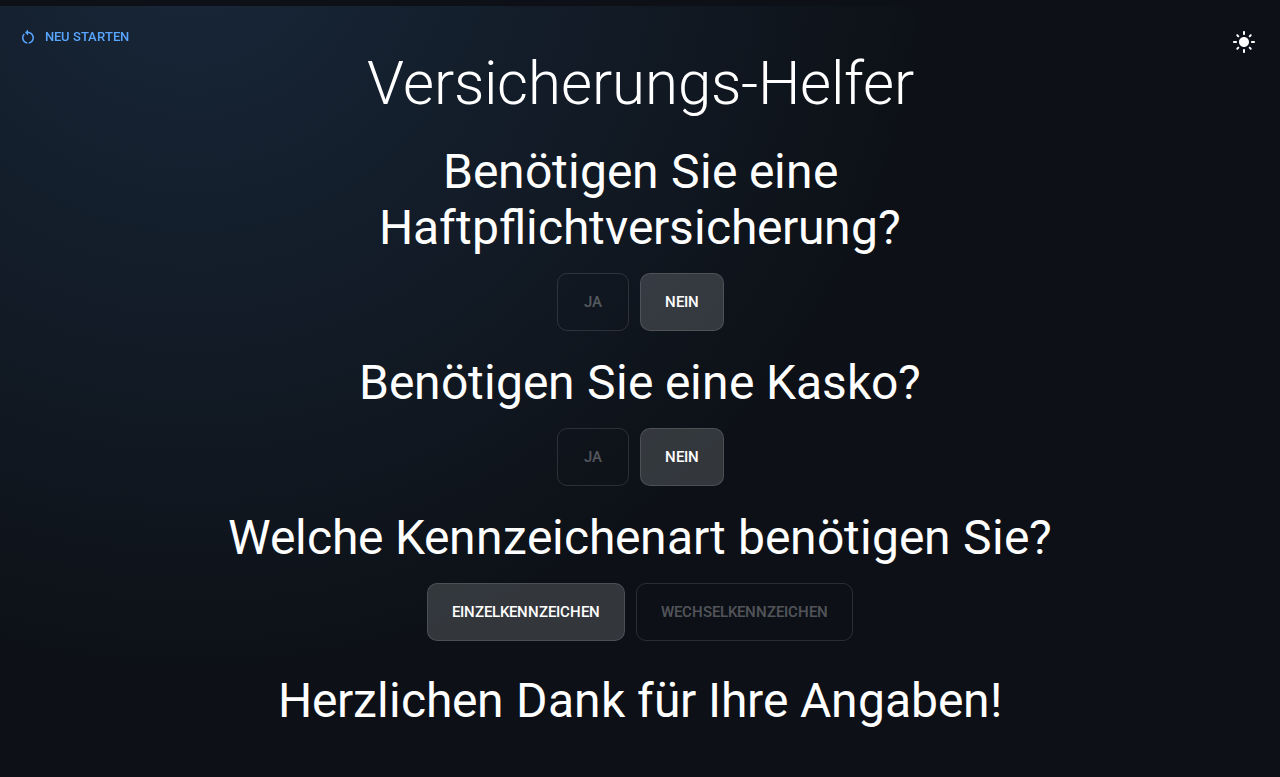
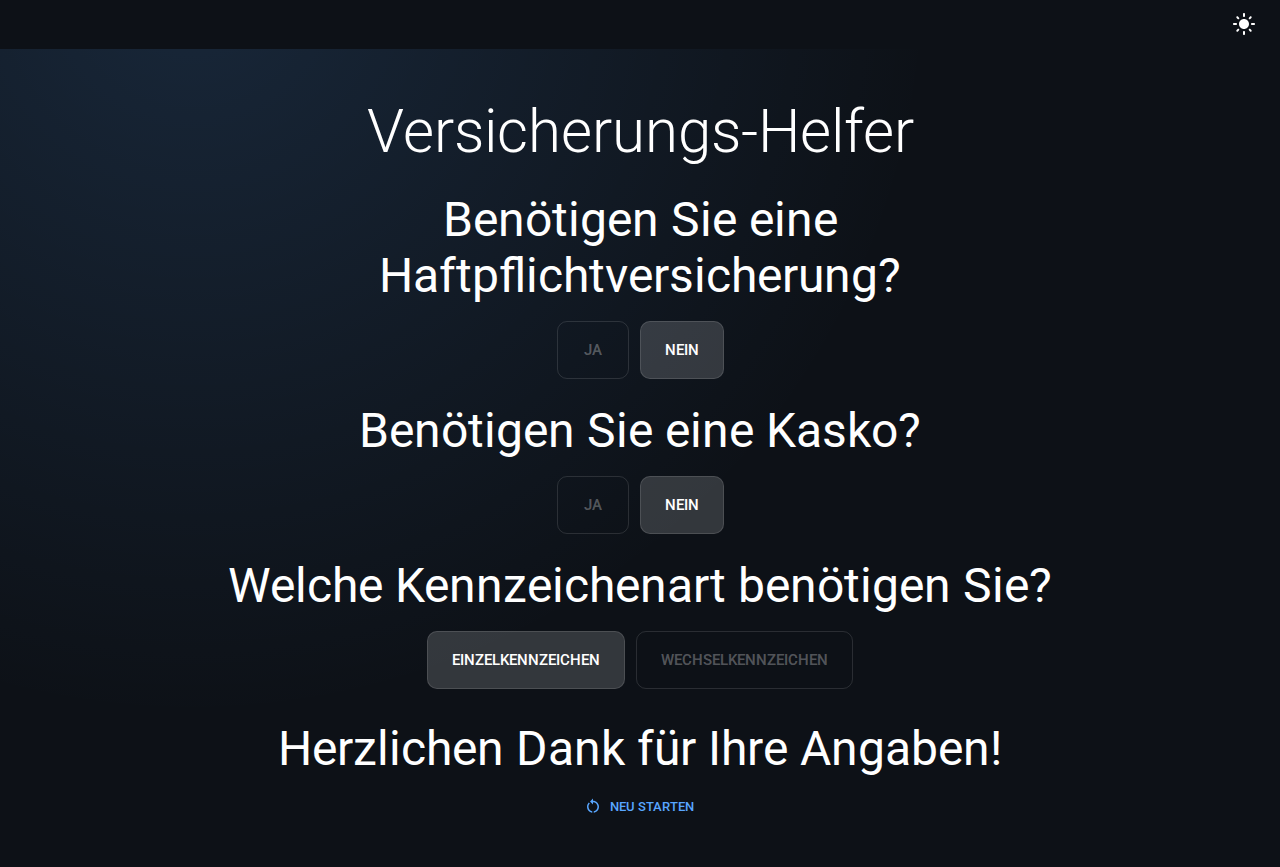
docs: describe the scrolling header and refresh stale screenshots
The README still described the reset button and theme toggle as fixed to
viewport corners.

diff --git a/README.md b/README.md
@@ -21,12 +21,14 @@ you reach the end, then an explicit "Absenden" button sends the answers
 (nothing submits automatically, and earlier answers stay editable right up
 until it's clicked). You can go back and change an earlier answer;
 everything after that point gets dropped and replayed, or start over
-completely with the "Neu starten" button, which stays fixed in place so it
-never shifts the conversation below it and asks for confirmation (a native
-`<dialog>`) before actually discarding anything. Progress survives a page
-refresh (it's kept in `sessionStorage`). The toggle in the top-right corner
-switches between a dark theme (the default) and a light one, with the change
-eased rather than an abrupt swap.
+completely with the "Neu starten" button, which asks for confirmation (a
+native `<dialog>`) before actually discarding anything. It lives in a small
+header that scrolls with the page rather than floating fixed in a corner, so
+it can never overlap the conversation on narrow viewports; once you've
+submitted, it moves to sit right below the thank-you message. Progress
+survives a page refresh (it's kept in `sessionStorage`). The theme toggle in
+that same header switches between a dark theme (the default) and a light
+one, with the change eased rather than an abrupt swap.
 
 A skip link lets keyboard users jump straight past the toggle to the
 conversation, focus moves to the next question's first option as it appears
